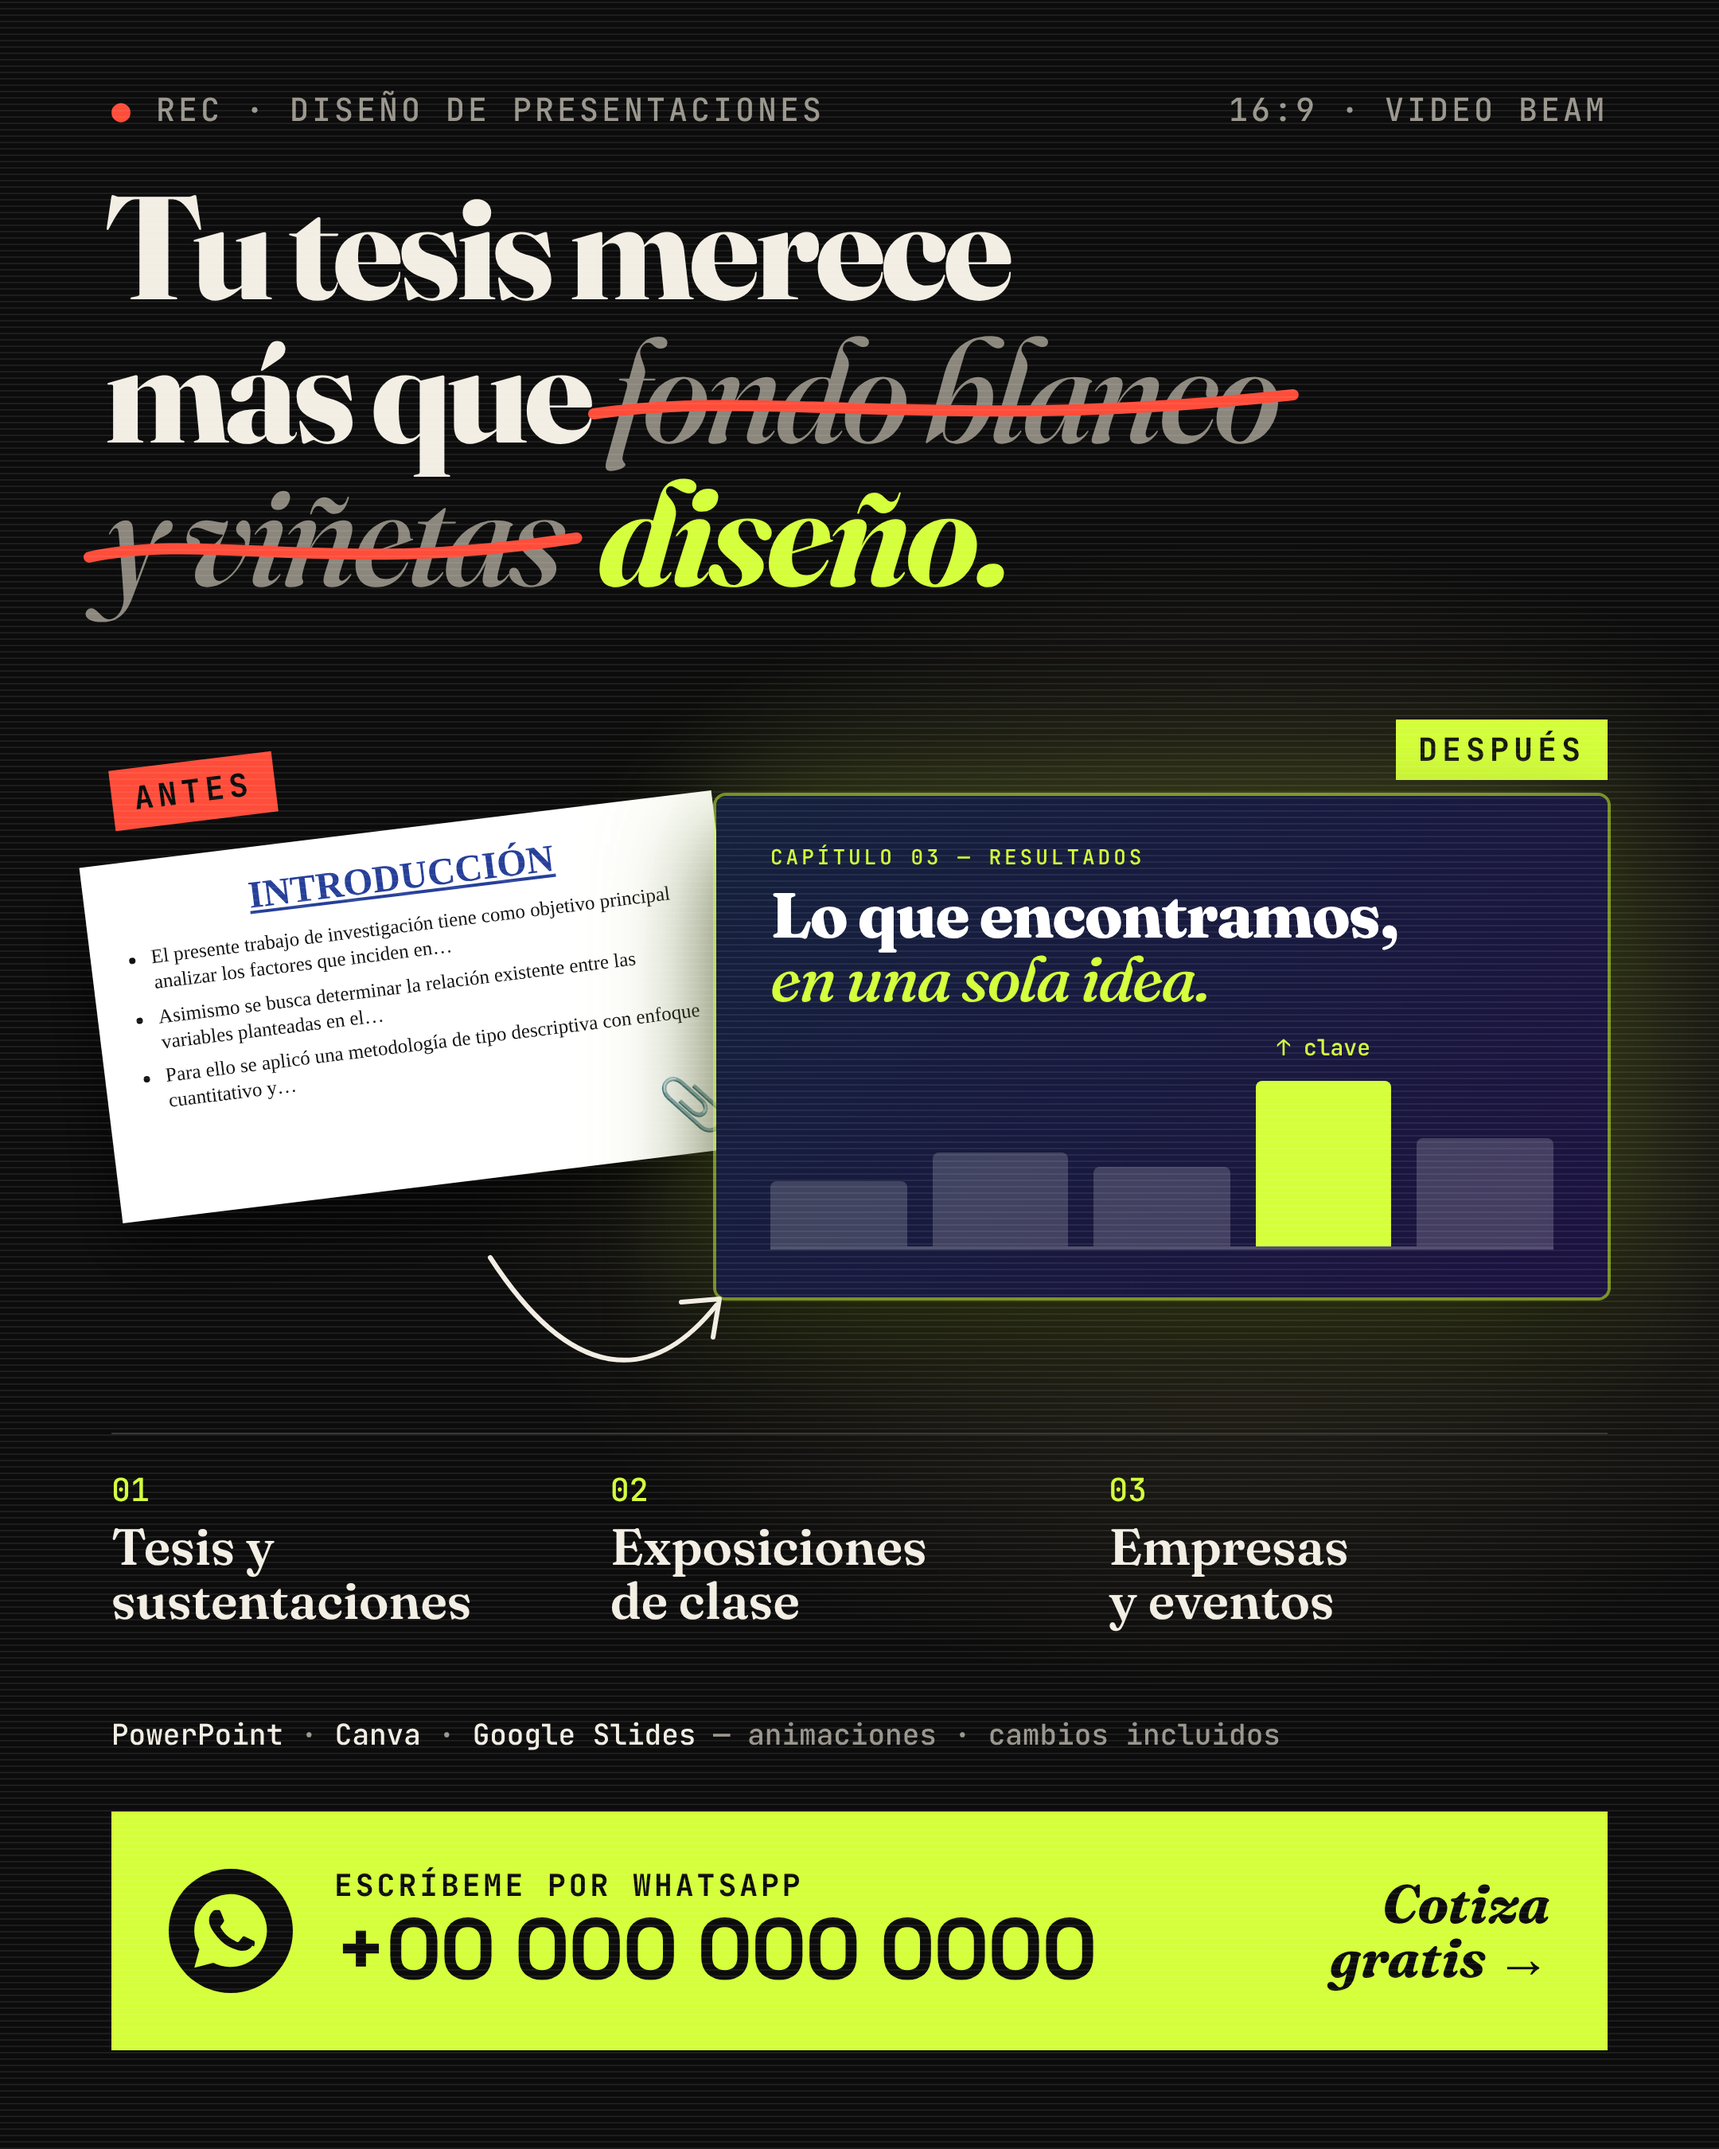
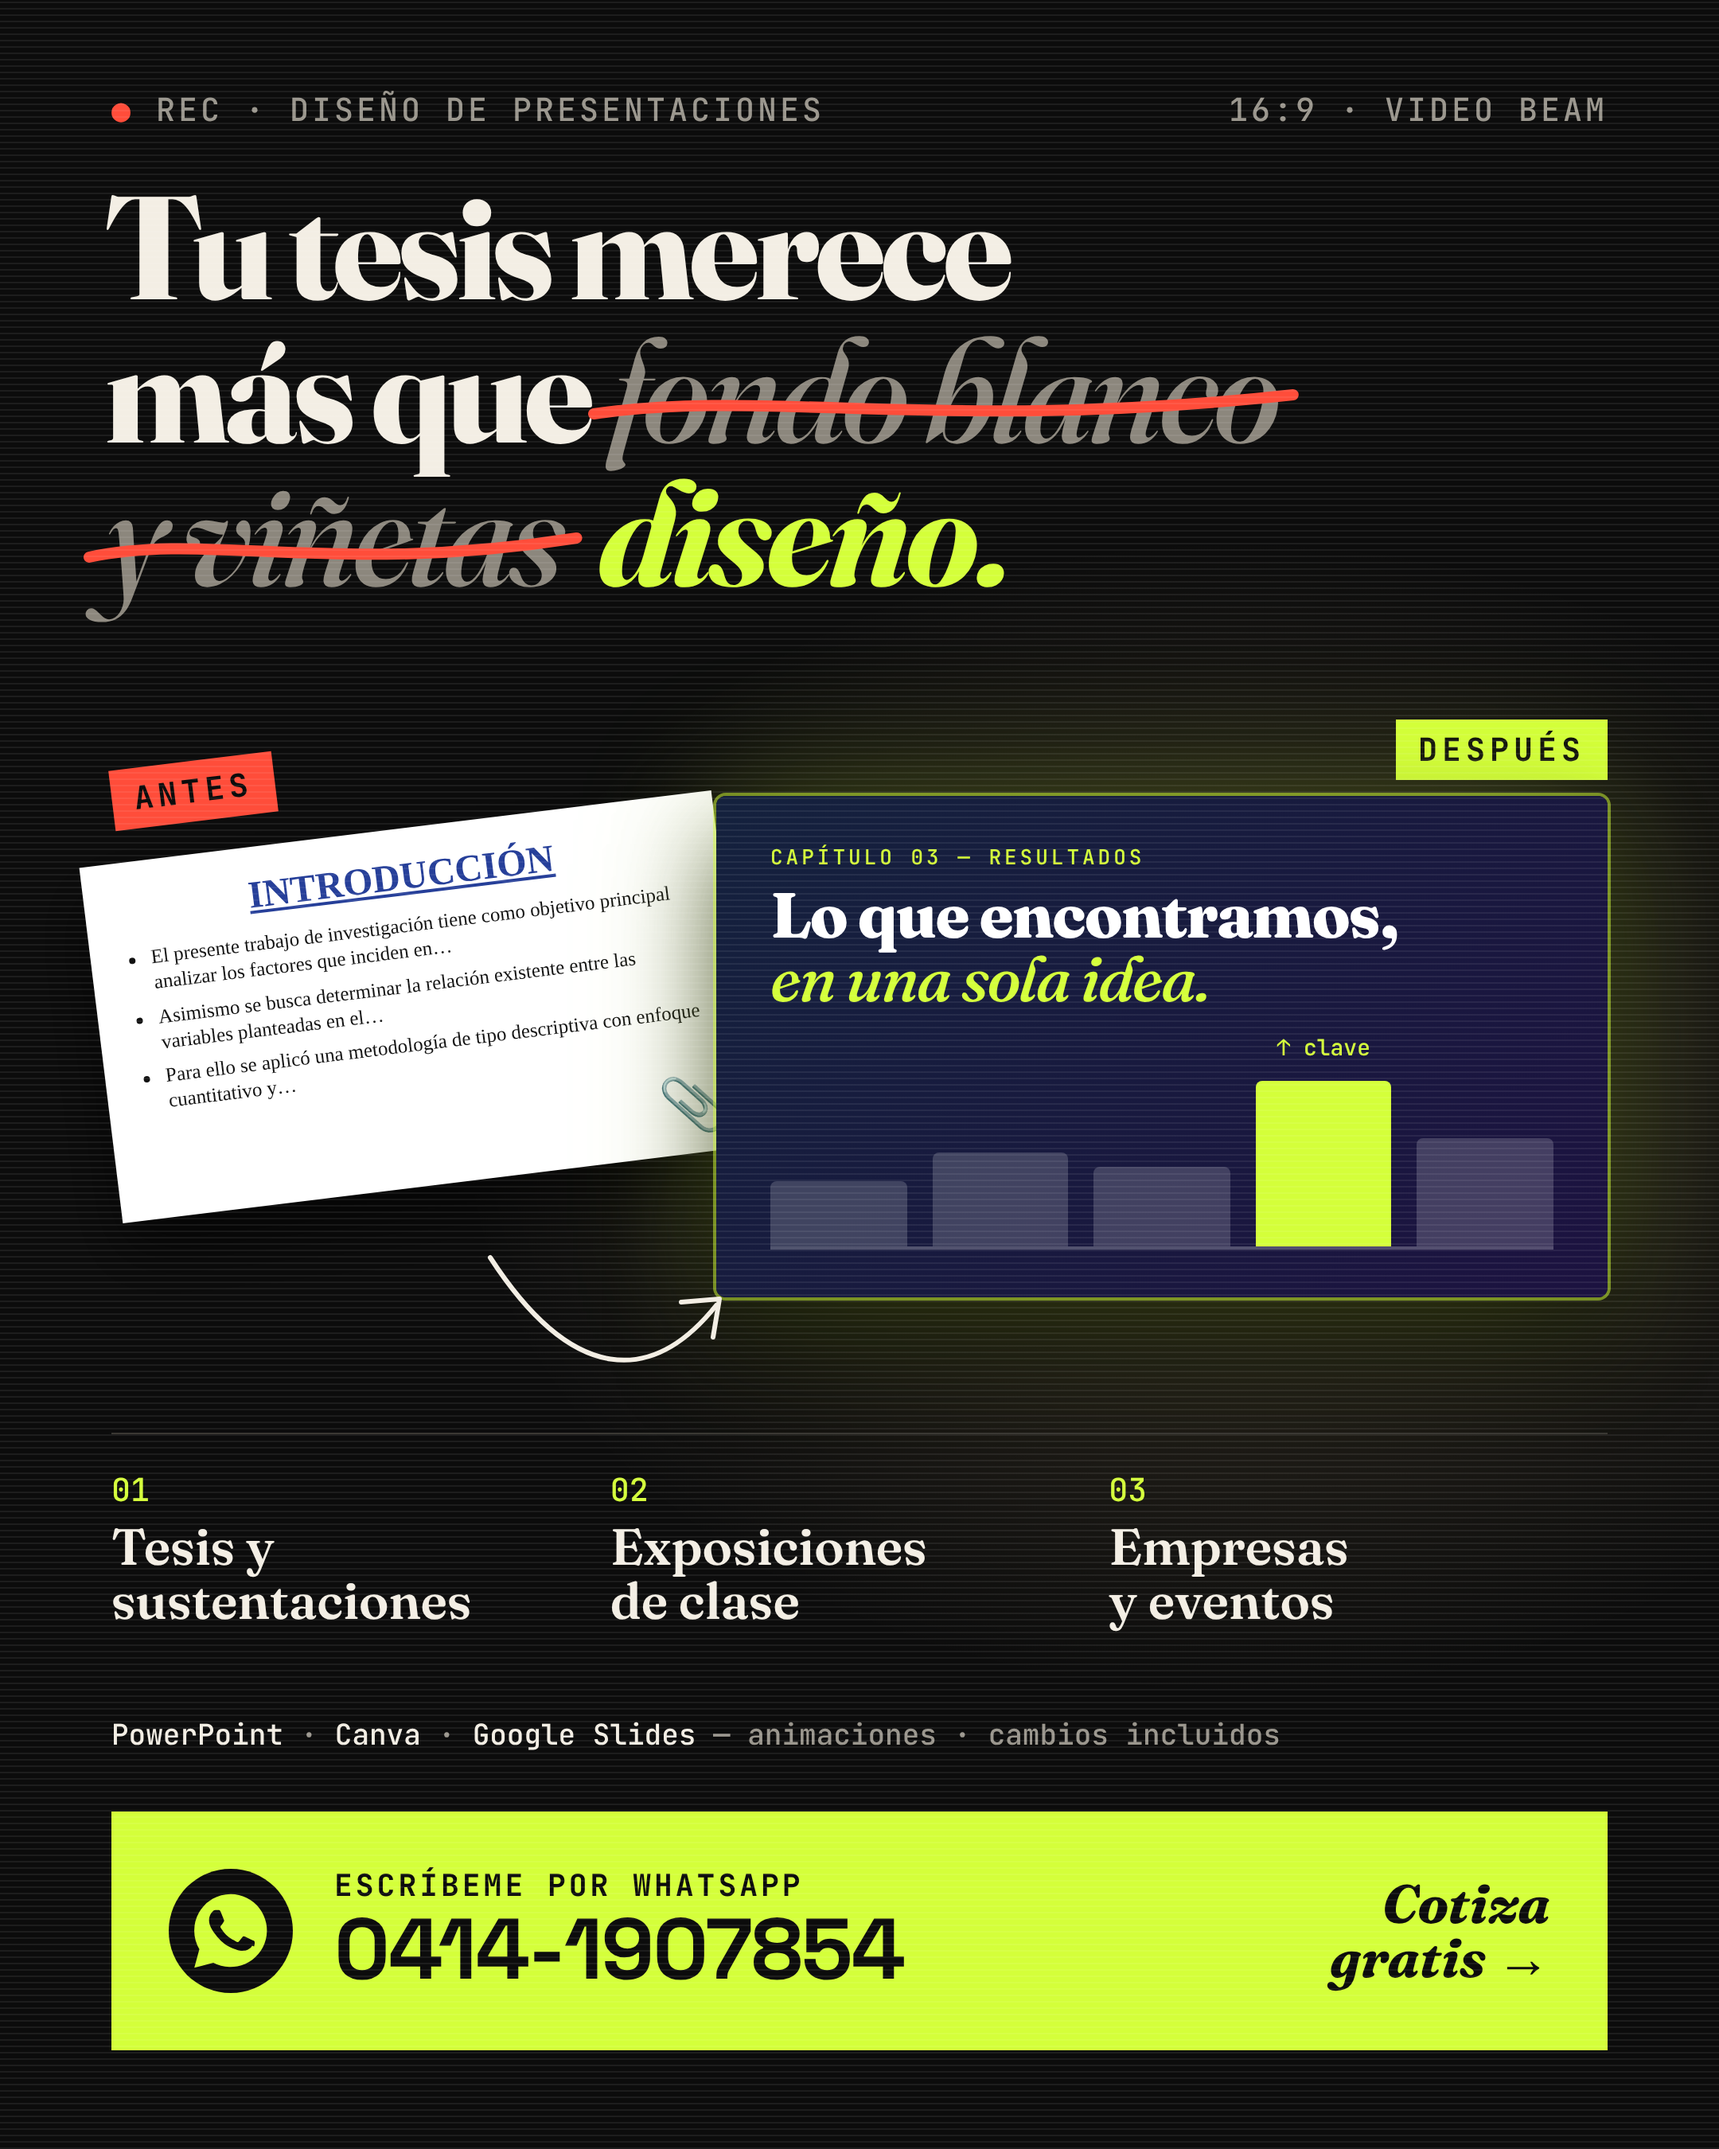
Agregar número de WhatsApp al flyer
Claude-Session: https://claude.ai/code/session_01HoWvvMGkjUwFD5cjsbnru3

Changed region(s): [[0.1861, 0.8711, 0.6514, 0.9333]]

diff --git a/flyer/flyer.html b/flyer/flyer.html
@@ -81,7 +81,7 @@ background:linear-gradient(135deg,#14213d,#1c1240);box-shadow:0 0 0 2px rgba(212
 
 <div class="cta">
   <svg viewBox="0 0 32 32"><circle cx="16" cy="16" r="16" fill="#0c0c0c"/><path fill="#d4ff3a" d="M16 6.5a9.4 9.4 0 0 0-8.1 14.2L6.6 25.5l4.9-1.3A9.4 9.4 0 1 0 16 6.5zm5.5 13.3c-.2.6-1.3 1.2-1.8 1.3-.5 0-1 .3-3.4-.7-2.8-1.1-4.6-4-4.8-4.2-.1-.2-1.1-1.5-1.1-2.9s.7-2.1 1-2.4c.3-.3.6-.3.8-.3h.6c.2 0 .4 0 .6.5l.8 2c.1.2.1.4 0 .5l-.3.5-.4.5c-.1.1-.3.3-.1.6.2.3.8 1.3 1.7 2.1 1.2 1 2.1 1.3 2.4 1.5.3.1.5.1.6-.1l.9-1.1c.2-.3.4-.2.7-.1l1.9.9c.3.1.5.2.5.3.1.2.1.7-.1 1.3z"/></svg>
-  <div><small>ESCRÍBEME POR WHATSAPP</small><strong>+00 000 000 0000</strong></div>
+  <div><small>ESCRÍBEME POR WHATSAPP</small><strong>0414-1907854</strong></div>
   <div class="go">Cotiza<br>gratis →</div>
 </div>
 </body></html>
